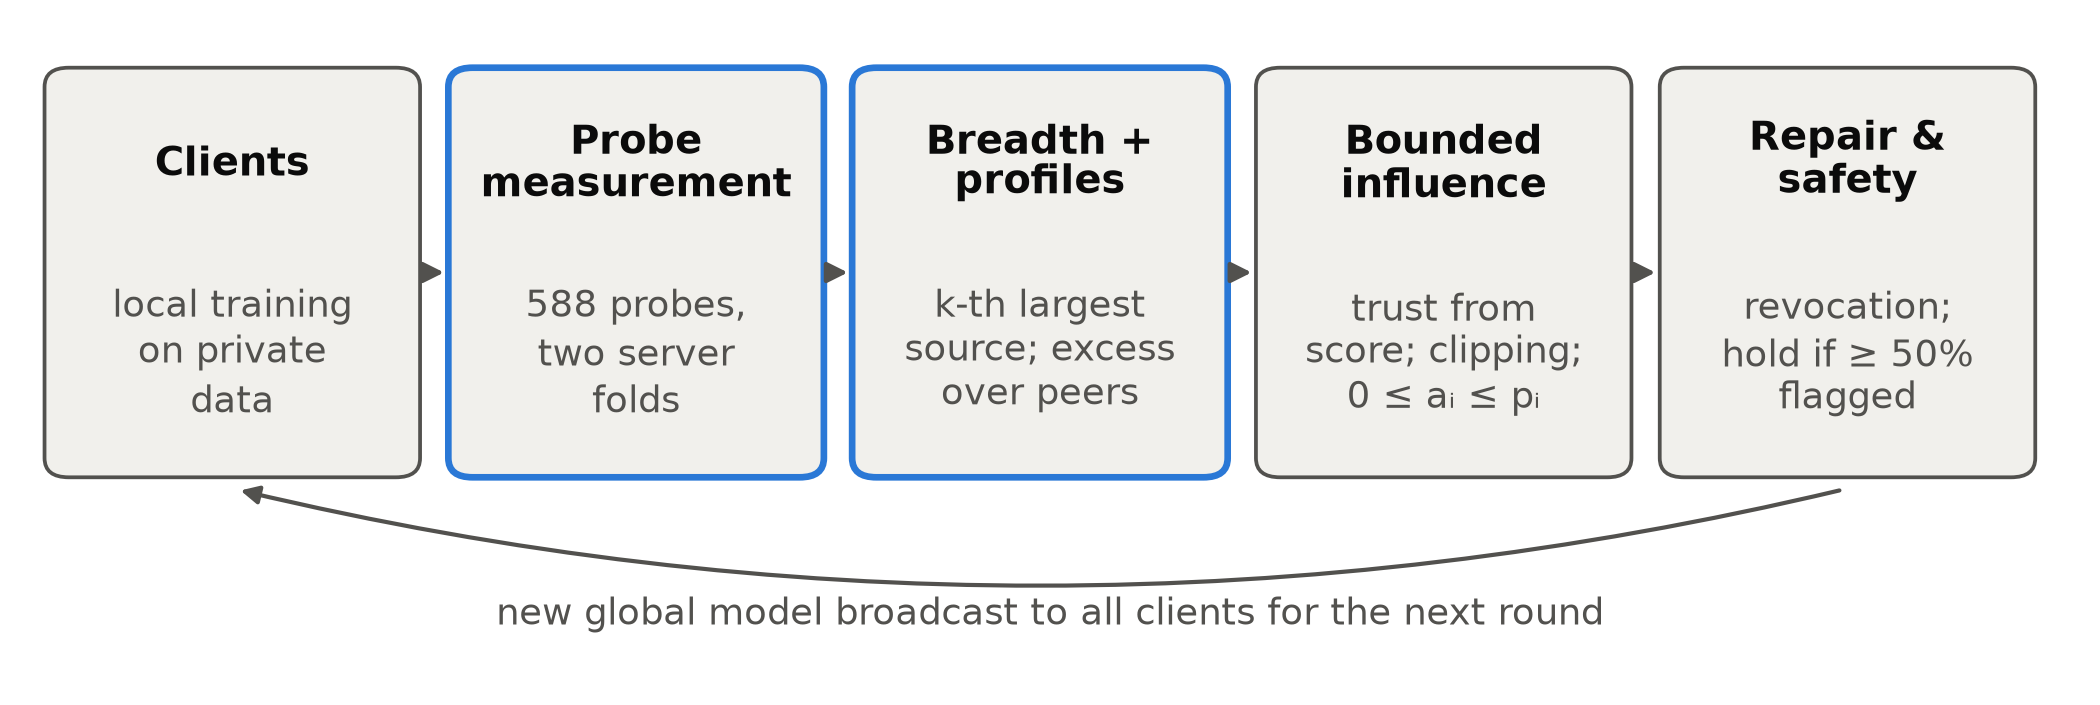
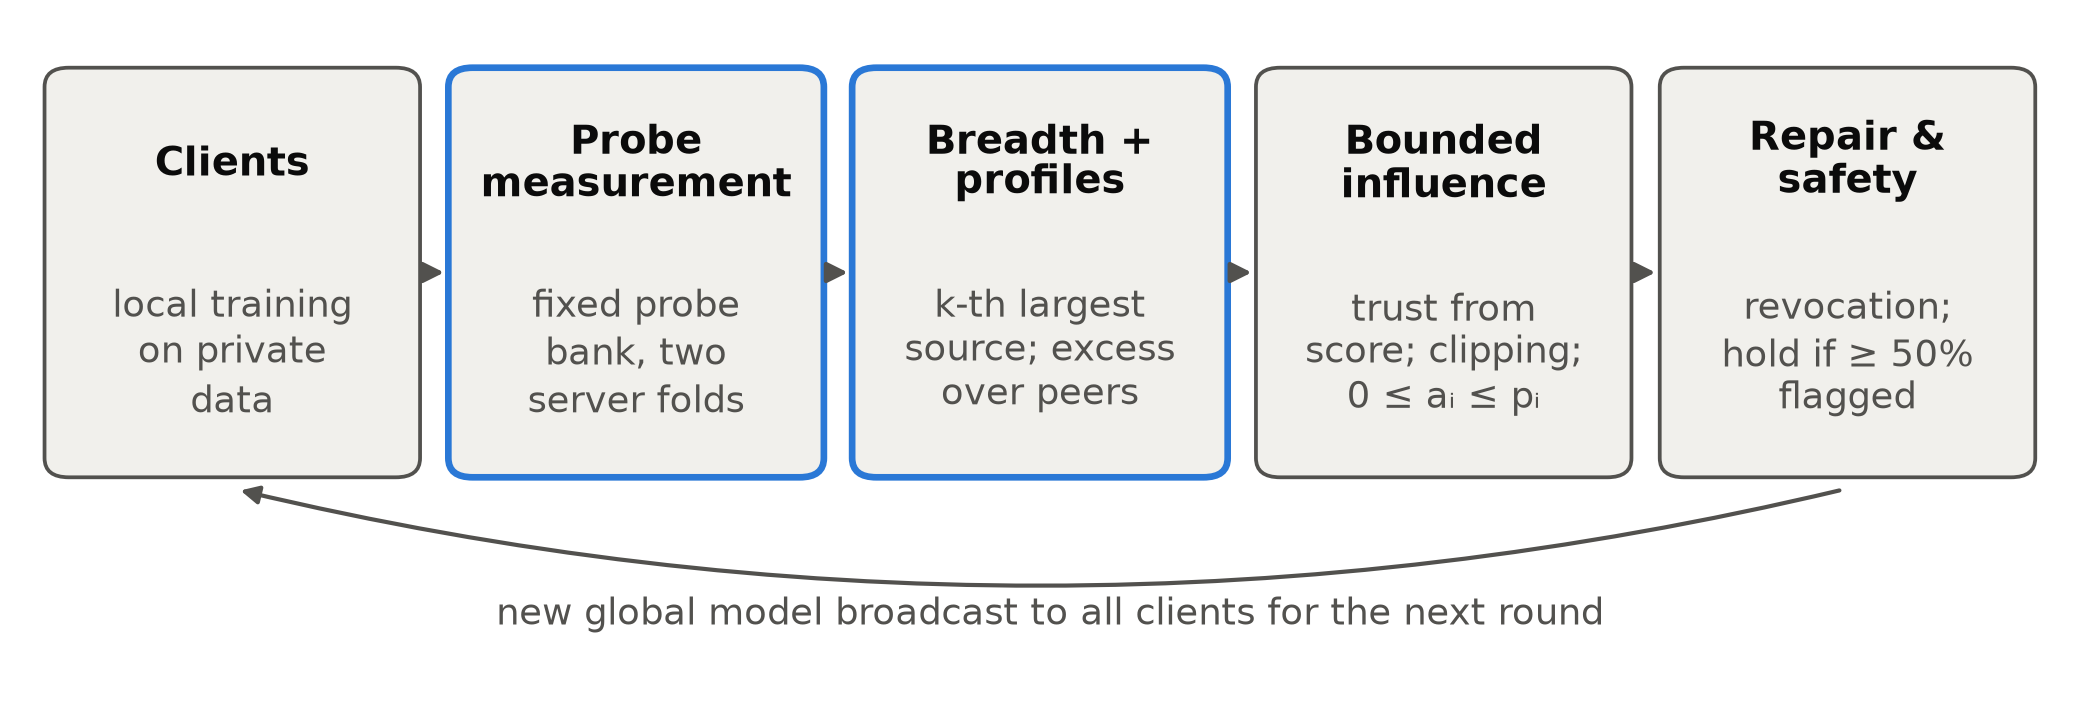
Paper: pool all three confirmations (15 seeds) with timing disclosed; version per seed set; shorter abstract; intro scope; Fig. 1/2 labels

Changed region(s): [[0.2476, 0.4057, 0.3714, 0.5929]]

diff --git a/paper/main.tex b/paper/main.tex
@@ -34,7 +34,7 @@ akshay\_2511ai35@iitp.ac.in}
 \maketitle
 
 \begin{abstract}
-Federated learning lets hospitals and device operators train a shared intrusion detection system (IDS) for the Internet of Medical Things (IoMT) without pooling traffic, but a few malicious participants can implant a backdoor that makes triggered attack traffic look benign. A partially poisoned update resembles an honest update from a client with unusual data, so defences that judge update geometry struggle. We propose Fed-MediShield, a server-side defence that probes what each submitted model does to the protected decision (``attack $\rightarrow$ benign'') on a small trusted reference sample, scores how broadly the update shifts attack traffic towards benign relative to peers and its own known-clean profile, and converts the score into bounded aggregation weights with revocation and a hold rule. On a six-class subset of CICIoMT2024, with criteria fixed in advance, it reduced the final attack success rate (ASR) from 98.86\% to 0.17\% on nine conclusive fresh seeds with no detectable macro-F1 loss, and to 0.03\% (FedAvg: 99.58\%) on the official test split; one replication did not meet all criteria. Against FedAvg and eight robust baselines, including FLTrust and FLAME, it was the only method that removed the backdoor while preserving utility, and descriptive results on ToN-IoT followed the same pattern. A score-aware attacker that camouflages probe-like inputs was defended, but one that also placed the trigger outside the probe bank evaded the defence; a larger secret probe bank raised detection against this attacker but was evaded by an attacker that mirrored its design. We report these and other limitations.
+Federated learning lets hospitals train a shared intrusion detection system (IDS) for the Internet of Medical Things (IoMT) without pooling traffic, but a few malicious participants can implant a backdoor that makes triggered attack traffic look benign. Because a partially poisoned update resembles an honest update from a client with unusual data, defences that judge update geometry struggle. We propose Fed-MediShield, a server-side defence that probes what each submitted model does to the protected decision (``attack $\rightarrow$ benign'') on a small trusted reference sample, scores how broadly the update shifts attack traffic towards benign relative to peers and to the client's own clean profile, and turns the score into bounded aggregation weights with revocation. On a six-class subset of CICIoMT2024, in three confirmations with criteria fixed in advance (one did not meet all of them), it reduced the final attack success rate from 99.09\% to 0.17\% on twelve conclusive fresh seeds without significant macro-F1 loss, and to 0.03\% (FedAvg: 99.58\%) on the official test split. Among FedAvg and eight robust baselines, including FLTrust and FLAME, it was the only method that removed the backdoor while preserving utility, and descriptive results on ToN-IoT agree. An attacker who knows the probe design and places the trigger outside the probes evades the defence; a larger secret probe bank did not reliably prevent this.
 \end{abstract}
 
 \begin{IEEEkeywords}
@@ -50,8 +50,9 @@ Fed-MediShield instead asks what each update does to the decision we want to pro
 \begin{itemize}
 \item a behaviour-probing score that measures how broadly an update shifts attack traffic towards the benign class, relative to peers and to the client's own known-clean profile, so that honest non-IID clients are not penalised;
 \item a bounded-influence aggregation with first-episode revocation and a hold rule, with $0 \le a_i \le p_i$ for every client, and simple properties of its influence bound, separation condition and cost;
-\item an evaluation on CICIoMT2024~\cite{dadkhah2024ciciomt} (including its official test split) and ToN-IoT~\cite{moustafa2021ton} with criteria fixed in advance, against eight baselines and score-aware adaptive attacks, reporting every failed confirmation, including an adaptive attack that evades the defence and a countermeasure that does not reliably stop it.
+\item an evaluation on CICIoMT2024~\cite{dadkhah2024ciciomt} (including its official test split) and ToN-IoT~\cite{moustafa2021ton} with criteria fixed in advance, against eight baselines and score-aware adaptive attacks, reporting every failed confirmation, and a security analysis showing where probing fails: an out-of-bank camouflage attack, and a secret-bank countermeasure that it also evades.
 \end{itemize}
+The evidence therefore covers non-adaptive attackers and a score-aware attacker that camouflages probe-like inputs; it gives no guarantee against an attacker who knows where the probes look.
 
 \section{Related Work}
 \textbf{Backdoors in FL.} Bagdasaryan et al.~\cite{bagdasaryan2020backdoor} showed that a single participant can implant a backdoor by scaling a poisoned update; norm clipping limits but does not remove it~\cite{sun2019canyou}. DualVeil~\cite{zhang2026dualveil} optimises backdoors to persist after the attack stops and to stay inconspicuous, which motivates our persistence experiment.
@@ -156,16 +157,16 @@ This follows from the definition of the $k$-th largest value; it states the assu
 
 \textbf{Baselines and metrics.} FedAvg~\cite{mcmahan2017fedavg}; Krum and Multi-Krum~\cite{blanchard2017krum} ($f=2$; Multi-Krum averages the $n-f-2=4$ best-scored updates); median and trimmed mean ($f=2$)~\cite{yin2018median}; RFA~\cite{pillutla2022rfa}; Fed-ADH~\cite{pathak2026early}; and FLTrust~\cite{cao2021fltrust}, whose root data are the same 32 records per class that Fed-MediShield uses. FLTrust's server takes as many steps per round as the median client (59 on CICIoMT2024, 9 on ToN-IoT) with full-batch AdamW; we report it with plain cross-entropy and with the clients' logit-adjusted loss at the server. FLAME~\cite{nguyen2022flame} uses HDBSCAN (scikit-learn) on pairwise cosine distances with minimum cluster size $n/2+1$, clipping to the median update norm and Gaussian noise of $0.001$ times that norm (our choice of noise level). An evaluator-only oracle that drops the true attackers (perfect detection) is the reference for unavoidable utility loss. We report ASR, accuracy, macro-F1, per-class recall, and the detection rate and honest false-alarm rate (FPR) over client updates; a client counts as flagged when it is not selected (Krum family), excluded (FLAME) or receives zero trust (FLTrust).
 
-\textbf{Protocol and seeds.} Design decisions used development seeds (43, 46) and calibration seeds (42, 44, 45) only. Evaluation used fresh seeds: 71--75 and 107--111 for the main confirmation and 82--86 for a replication, 63--67 for the comparison, 76--81, 87--89, 98, 99 and 101--106 for robustness, 112--114 for the probe-bank countermeasure, 90--92 for other partitions and 93--97 for ToN-IoT. The criteria of each confirmation (final-ASR reduction, exposure rounds, detection rate and timing, honest false alarms, and utility relative to FedAvg and the oracle) were fixed in advance in protocol files that are released with the code; for the added baselines and adaptive attacks, the protocol files were committed to version control before the runs. A seed is inconclusive when FedAvg's attacked final ASR is below 50\%, a rule also fixed in advance; inconclusive seeds are reported but excluded from summaries. The runs on seeds 71--75, Table~\ref{tab:compare} and the official test used the version before the hold rule, which stopped a run at the first invalid round; all of them completed 15 rounds without one, so the final method gives identical results there. The hold rule was added after a fresh-seed run of that version stopped because two honest clients were flagged together with both attackers in round 2 (seed 79). All runs execute on one CPU.
+\textbf{Protocol and seeds.} Design decisions used development seeds (43, 46) and calibration seeds (42, 44, 45) only. Evaluation used fresh seeds: 71--75, 82--86 and 107--111 for three confirmations, 63--67 for the comparison, 76--81, 87--89, 98, 99 and 101--106 for robustness, 112--114 for the probe-bank countermeasure, 90--92 for other partitions and 93--97 for ToN-IoT. The criteria of each confirmation (final-ASR reduction, exposure rounds, detection rate and timing, honest false alarms, and utility relative to FedAvg and the oracle) were fixed in advance in protocol files that are released with the code; for the added baselines and adaptive attacks, the protocol files were committed to version control before the runs. A seed is inconclusive when FedAvg's attacked final ASR is below 50\%, a rule also fixed in advance; inconclusive seeds are reported but excluded from summaries. The runs on seeds 71--75, Table~\ref{tab:compare} and the official test used the version before the hold rule, which stopped a run at the first invalid round; all of them completed 15 rounds without one, so the final method gives identical results there; seeds 82--86, 107--111 and all later runs used the final version. The hold rule was added after a fresh-seed run of that version stopped because two honest clients were flagged together with both attackers in round 2 (seed 79). All runs execute on one CPU.
 
 \section{Results}
 
 \subsection{Main result, replication and comparison}
-The main confirmation was run on five fresh CICIoMT2024 seeds (71--75) and, under a plan committed beforehand, on five more (107--111). Both sets met all criteria fixed in advance (five and four conclusive seeds; seed 109 was inconclusive). Over the nine conclusive seeds Fed-MediShield lowered the final ASR from 98.86$\pm$1.80\% (FedAvg) to 0.17$\pm$0.26\% (at most 0.81\%) and detected 95.2\% of poisoned updates; false alarms hit 0.5\% of honest updates in clean runs. Utility showed no detectable difference: clean-run macro-F1 minus FedAvg $-0.05$ points (95\% CI $[-0.37, 0.28]$, ten seeds), attacked-run F1 minus the oracle $+0.62$ ($[-0.50, 1.75]$).
+The final configuration was confirmed three times on fresh CICIoMT2024 seeds, each with criteria fixed in advance: on seeds 71--75 and 82--86, both planned before any of their runs, and on 107--111, planned and committed after the 82--86 result was known. Sets 71--75 and 107--111 met all criteria (seed 109 was inconclusive); 82--86 did not (below). Over all twelve conclusive seeds of the three sets, Fed-MediShield lowered the final ASR from 99.09$\pm$1.59\% (FedAvg) to 0.17$\pm$0.25\% (at most 0.81\%) and detected 96.1\% of poisoned updates; false alarms hit 0.44\% of honest updates in clean runs. Clean-run macro-F1 minus FedAvg was $-0.55$ points over all fifteen seeds (95\% CI $[-1.47, 0.38]$; $-0.05$, $[-0.37, 0.28]$, without the failed set), so no significant loss was found but a loss of up to about 1.5 points cannot be excluded; attacked-run F1 minus the oracle was $+0.44$ ($[-0.40, 1.28]$).
 
 The replication of the final version on seeds 82--86 was \emph{not supported}: two seeds were inconclusive (FedAvg final ASR 19\% and 2\%), leaving three conclusive seeds against the required four, and seed 82 failed the utility criteria (clean macro-F1 $-1.41$ points, DoS recall $-6.4$ points). Security held on all five seeds (final ASR $\leq$0.46\%, detection 90--100\%). On inconclusive seed 85, a single honest false alarm in the last round flipped the DDoS/DoS decision and cost 6.3 F1 points; because the model's DDoS/DoS split changes between rounds even in clean FedAvg, small perturbations move accuracy by about 10 points in this subset.
 
-Table~\ref{tab:compare} compares all methods on separate runs (seeds 63--67), so its Fed-MediShield ASR (0.05\%) differs from the main evaluation above. Only Fed-MediShield removed the backdoor while preserving utility. Krum removed it by excluding most honest updates (87.5\% of honest updates unselected in clean runs); Multi-Krum blocked it on two of four seeds and lost 14 macro-F1 points; Fed-ADH, designed for untargeted poisoning, flagged 11.7\% of poisoned updates while excluding one client per round (our implementation of its Algorithm~1, which has no ``no suspect'' outcome). FLTrust let the backdoor through on both datasets: its trust score for poisoned updates (0.17 on CICIoMT2024) was barely lower than for honest ones (0.21), because an attacker that poisons half of its attack rows still trains normally on everything else. On CICIoMT2024 FLTrust also lost 11--12 F1 points; giving its server the clients' loss changed little (ASR 99.87\%, trust 0.16 vs 0.22), so the loss mismatch is not the cause, although its root update was on average 1.9 times as large as the client updates, which scales all updates up. FLAME also let the backdoor through: its clustering excluded only 37\% of poisoned updates but 21--33\% of honest ones, and it lost 2.5--3.7 F1 points. On ToN-IoT, a descriptive evaluation (Section~\ref{sec:limits}), the ranking was the same, with clean-run F1 identical to FedAvg and no honest update flagged. Attacked-run utility matched the oracle on both datasets (macro-F1 minus oracle: $+0.62$ on CICIoMT2024, $-0.18$ on ToN-IoT).
+Table~\ref{tab:compare} compares all methods on separate runs (seeds 63--67), so its Fed-MediShield ASR (0.05\%) differs from the main evaluation above. Only Fed-MediShield removed the backdoor while preserving utility. Krum removed it by excluding most honest updates (87.5\% of honest updates unselected in clean runs); Multi-Krum blocked it on two of four seeds and lost 14 macro-F1 points; Fed-ADH, designed for untargeted poisoning, flagged 11.7\% of poisoned updates while excluding one client per round (our implementation of its Algorithm~1, which has no ``no suspect'' outcome). FLTrust let the backdoor through on both datasets: its trust score for poisoned updates (0.17 on CICIoMT2024) was barely lower than for honest ones (0.21), because an attacker that poisons half of its attack rows still trains normally on everything else. On CICIoMT2024 FLTrust also lost 11--12 F1 points; giving its server the clients' loss changed little (ASR 99.87\%, trust 0.16 vs 0.22), so the loss mismatch is not the cause, although its root update was on average 1.9 times as large as the client updates, which scales all updates up. FLAME also let the backdoor through: its clustering excluded only 37\% of poisoned updates but 21--33\% of honest ones, and it lost 2.5--3.7 F1 points. On ToN-IoT, a descriptive evaluation (Section~\ref{sec:limits}), the ranking was the same, with clean-run F1 identical to FedAvg and no honest update flagged. Attacked-run utility matched the oracle on both datasets (macro-F1 minus oracle: $+0.44$ over the twelve conclusive confirmation seeds of CICIoMT2024, $-0.18$ on ToN-IoT seeds 93--97).
 
 \begin{table*}[!t]
 \centering
@@ -203,7 +204,7 @@ Fig.~\ref{fig:rounds} shows the ASR per round. Under FedAvg the backdoor reaches
 \begin{figure}[!t]
 \centering
 \includegraphics[width=\columnwidth]{fig1_asr_per_round}
-\caption{ASR per round on CICIoMT2024, five fresh seeds (line: mean; band: range). Dashed: oracle (true attackers removed), i.e.\ the ASR level without a backdoor.}
+\caption{ASR per round on CICIoMT2024, seeds 71--75 (line: mean; band: range). Dashed: oracle (true attackers removed), i.e.\ the ASR level without a backdoor.}
 \label{fig:rounds}
 \end{figure}
 
@@ -308,7 +309,7 @@ Geometry-based rules fail here because a backdoor client that poisons half of it
 (i) \emph{Adaptive evasion.} An attacker who knows the probe design and both camouflages probe-like inputs and places the trigger outside the probe bank evades the defence completely (Table~\ref{tab:robust}). A secret bank of 4508 probes raised detection against this attacker but still missed it on two of six seeds and was evaded completely by an attacker mirroring its design; probes beyond feature groups are untested. (ii) \emph{Failed confirmations.} The replication of the final version, the out-of-bank trigger and the three-attacker test did not meet all criteria fixed in advance; several utility failures coincide with the DDoS/DoS ambiguity of our subset, but seed-level attribution is not established. (iii) \emph{Descriptive results.} On ToN-IoT and with 32 clients, small attackers were often flagged only after their third poisoned round, so the backdoor was present early (mean ASR over rounds 8\% on ToN-IoT); the live gate on detection timing failed, so these results are descriptive. (iv) Under extreme heterogeneity ($\alpha=0.1$) one attacker held 46\% of the data and could not be excluded without destroying utility. (v) A source-specific backdoor that flips only one or two classes partly evades the breadth statistic (detection 31--77\%), although such backdoors were also weak without defence in our tests. (vi) The calibration assumes honest pilot runs of the same federation, and $k$ must not exceed the number of classes the backdoor shifts. (vii) \emph{Availability.} The hold rule keeps poison out but can be abused: an honest minority facing many attackers, or induced false alarms, can stop training. (viii) Excluding attackers removes their genuine data; the oracle measures this cost for excluding these particular attackers, which is not a general lower bound. (ix) The server needs plaintext updates and a trusted reference sample, which conflicts with secure aggregation. (x) We used a six-file subset of CICIoMT2024, an MLP, synthetic feature-space triggers, 15 rounds, full participation and up to 32 clients; partial participation is untested.
 
 \section{Conclusion}
-Fed-MediShield protects a federated IoMT IDS by probing the decision an attacker wants to change. In its main confirmation on ten seeds it removed the backdoor with no detectable loss of utility, although one replication did not meet all criteria; among FedAvg and eight robust baselines it was the only method that removed the backdoor while preserving utility, and it withstood a score-aware camouflage attack. It does not withstand an attacker who also moves the trigger outside the probe bank, and a larger secret bank did not reliably fix this. Future work will address probes that an attacker cannot imitate, faster detection of small attackers, source-specific backdoors, compatibility with secure aggregation, and the full CICIoMT2024 dataset.
+Fed-MediShield protects a federated IoMT IDS by probing the decision an attacker wants to change. Across three confirmations on fifteen fresh seeds it removed the backdoor without significant loss of utility, although one confirmation did not meet all criteria; among FedAvg and eight robust baselines it was the only method that removed the backdoor while preserving utility, and it withstood a score-aware camouflage attack. It does not withstand an attacker who also moves the trigger outside the probe bank, and a larger secret bank did not reliably fix this. Future work will address probes that an attacker cannot imitate, faster detection of small attackers, source-specific backdoors, compatibility with secure aggregation, and the full CICIoMT2024 dataset.
 
 \FloatBarrier
 \begin{thebibliography}{99}

diff --git a/logs/make_figures_2.py b/logs/make_figures_2.py
@@ -189,7 +189,7 @@ save(fig, "fig12_score_distributions")
 fig, ax = plt.subplots(figsize=(7.0, 2.35))
 ax.set_xlim(0, 100); ax.set_ylim(-8, 31); ax.axis("off")
 steps = [(0.5, "Clients", "local training\non private\ndata"),
-         (20.5, "Probe\nmeasurement", "588 probes,\ntwo server\nfolds"),
+         (20.5, "Probe\nmeasurement", "fixed probe\nbank, two\nserver folds"),
          (40.5, "Breadth +\nprofiles", "k-th largest\nsource; excess\nover peers"),
          (60.5, "Bounded\ninfluence", "trust from\nscore; clipping;\n0 ≤ aᵢ ≤ pᵢ"),
          (80.5, "Repair &\nsafety", "revocation;\nhold if ≥ 50%\nflagged")]

diff --git a/project_info/operations_addendum_2026-10.md b/project_info/operations_addendum_2026-10.md
@@ -383,3 +383,7 @@ Large bank (1000 random 4-feature groups, probe seed 50821, 4508 probes), gate P
 - Camouflage mirroring the new design (attacker's 1000 random groups) + out-of-bank trigger: detection 0%, final ASR 95.6-98.2% (= FedAvg). Evades completely.
 - Camouflage (16 groups) + main trigger: defended on 112 and 114, but 99.6% on seed 113 (detection 23%, honest FPR 6.7%), an attack the original bank defended on all 5 seeds (A44). Camouflage (1000 groups) + main trigger: defended (0.05-0.48%).
 - Interpretation: more and secret probes raise detection against a fixed attacker, but an attacker that scales its camouflage to the published design evades again, and the larger bank's higher thresholds cost detection elsewhere. Probe coverage alone does not close the adaptive gap; probes the attacker cannot imitate (data-dependent probes, trigger inversion) are future work. No further method change.
+
+## A47. Pooling over all three confirmations (third review)
+
+The headline now pools all fresh confirmation seeds of the final configuration: 71-75 and 82-86 (planned before their runs) and 107-111 (planned and committed on 14 Oct 2026, after the 82-86 result was known). 15 seeds, 12 conclusive: final ASR 0.17 +/- 0.25% (max 0.81%) vs FedAvg 99.09 +/- 1.59%; detection 96.1%; clean-update FPR 0.44%; clean F1 vs FedAvg -0.55 (95% CI -1.47 to +0.38, all 15 seeds; -0.05 [-0.37, +0.28] without 82-86); attacked F1 vs oracle +0.44 (-0.40 to +1.28). Abstract shortened to 220 words; Fig. 1 label "fixed probe bank".
